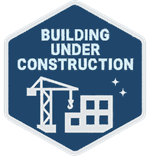
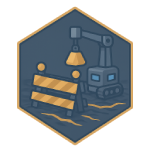
Nuevas imagenes para edificios. Por nivel

diff --git a/components/main/ResearchComponent.tsx b/components/main/ResearchComponent.tsx
@@ -36,6 +36,7 @@ export default function ResearchComponent() {
 
       const isAvailable = labLevel >= config.labLevelRequired;
       const time = formatDuration(getResearchTime(type, currentLevel + 1));
+      const isMaxed = currentLevel >= config.maxLevel;
 
       return {
         key: type,
@@ -46,6 +47,7 @@ export default function ResearchComponent() {
         inProgress,
         remainingTime,
         time,
+        isMaxed,
       };
     })
     .sort((a, b) => a.labLevelRequired - b.labLevelRequired);
@@ -73,15 +75,11 @@ export default function ResearchComponent() {
                 </Text>
               </View>
 
-              <View style={styles.row}>
-                <ResourceDisplay resources={item.baseCost} fontSize={13} />
-              </View>
-
-              <Text style={styles.description}>{item.description}</Text>
-
-              {item.inProgress ? (
-                <View style={styles.inProgressContainer}>
-                  <Text style={styles.inProgressText}>
+              {item.isMaxed ? (
+                <></>
+              ) : item.inProgress ? (
+                <View style={styles.actionContainer}>
+                  <Text style={styles.statusText}>
                     ⏳ En curso: {formatDuration(item.remainingTime)}
                   </Text>
                   <TouchableOpacity
@@ -92,14 +90,21 @@ export default function ResearchComponent() {
                   </TouchableOpacity>
                 </View>
               ) : item.isAvailable ? (
-                <TouchableOpacity
-                  style={styles.button}
-                  onPress={() => handleResearch(item.type)}
-                >
-                  <Text style={styles.buttonText}>
-                    Investigar ({item.time})
-                  </Text>
-                </TouchableOpacity>
+                <>
+                  <View style={styles.row}>
+                    <ResourceDisplay resources={item.baseCost} fontSize={13} />
+                  </View>
+                  <Text style={styles.description}>{item.description}</Text>
+                  <View style={styles.actionContainer}>
+                    <Text style={styles.statusText}>⏱ {item.time}</Text>
+                    <TouchableOpacity
+                      style={styles.investButton}
+                      onPress={() => handleResearch(item.type)}
+                    >
+                      <Text style={styles.investButtonText}>Investigar</Text>
+                    </TouchableOpacity>
+                  </View>
+                </>
               ) : (
                 <Text style={styles.lockedText}>
                   🔒 Requiere laboratorio nivel {item.labLevelRequired}
@@ -193,20 +198,40 @@ const styles = StyleSheet.create({
     color: "#fff",
     fontWeight: "bold",
   },
-  inProgressContainer: {
+  actionContainer: {
     flexDirection: "row",
     justifyContent: "space-between",
     alignItems: "center",
     marginTop: 8,
-    backgroundColor: "rgba(255,255,255,0.1)",
-    padding: 6,
+    backgroundColor: "rgba(255, 255, 255, 0.1)",
+    paddingVertical: 6,
+    paddingHorizontal: 12,
+    borderRadius: 8,
+  },
+
+  statusText: {
+    color: "#facc15",
+    fontWeight: "bold",
+    fontSize: 13,
+  },
+
+  investButton: {
+    backgroundColor: "#2196F3",
+    paddingVertical: 4,
+    paddingHorizontal: 12,
     borderRadius: 6,
   },
 
+  investButtonText: {
+    color: "#fff",
+    fontWeight: "bold",
+    fontSize: 13,
+  },
+
   cancelButton: {
-    backgroundColor: "#f87171", // rojo claro
+    backgroundColor: "#f87171",
     paddingVertical: 4,
-    paddingHorizontal: 10,
+    paddingHorizontal: 12,
     borderRadius: 6,
   },
 

diff --git a/src/config/buildingConfig.ts b/src/config/buildingConfig.ts
@@ -1,5 +1,5 @@
 import { ImageSourcePropType } from "react-native";
-import { BuildingType } from "../types/buildingTypes";
+import { BuildingImageLevel, BuildingType } from "../types/buildingTypes";
 import { IMAGES } from "../types/imageTypes";
 import { Resources } from "../types/resourceTypes";
 
@@ -8,7 +8,7 @@ export const buildingConfig: Record<
   {
     name: string;
     baseBuildTime: number;
-    image: ImageSourcePropType;
+    images: BuildingImageLevel[];
     underConstructionImage: ImageSourcePropType;
     baseCost: Partial<Resources>;
     production: Partial<Resources>;
@@ -17,7 +17,13 @@ export const buildingConfig: Record<
   base: {
     name: "Base",
     baseBuildTime: 1000,
-    image: IMAGES.BUILDING_MAIN_BASE,
+    images: [
+      { level: 1, image: IMAGES.BUILDING_BASE_1 },
+      { level: 2, image: IMAGES.BUILDING_BASE_2 },
+      { level: 3, image: IMAGES.BUILDING_BASE_3 },
+      { level: 4, image: IMAGES.BUILDING_BASE_4 },
+      { level: 5, image: IMAGES.BUILDING_BASE_5 },
+    ],
     underConstructionImage: IMAGES.BUILDING_UNDER_CONSTRUCTION,
     baseCost: { metal: 10000, energy: 500 },
     production: { metal: 3000, energy: 100, crystal: 200, stone: 3000 },
@@ -25,7 +31,13 @@ export const buildingConfig: Record<
   lab: {
     name: "Laboratorio",
     baseBuildTime: 45000,
-    image: IMAGES.BUILDING_LAB,
+    images: [
+      { level: 1, image: IMAGES.BUILDING_LAB_1 },
+      { level: 2, image: IMAGES.BUILDING_LAB_2 },
+      { level: 3, image: IMAGES.BUILDING_LAB_3 },
+      { level: 4, image: IMAGES.BUILDING_LAB_4 },
+      { level: 5, image: IMAGES.BUILDING_LAB_5 },
+    ],
     underConstructionImage: IMAGES.BUILDING_UNDER_CONSTRUCTION,
     baseCost: { stone: 600, metal: 600, energy: 50 },
     production: {},
@@ -33,7 +45,13 @@ export const buildingConfig: Record<
   metallurgie: {
     name: "Metalurgia",
     baseBuildTime: 60000,
-    image: IMAGES.BUILDING_FACTORY,
+    images: [
+      { level: 1, image: IMAGES.BUILDING_METAL_1 },
+      { level: 2, image: IMAGES.BUILDING_METAL_2 },
+      { level: 3, image: IMAGES.BUILDING_METAL_3 },
+      { level: 4, image: IMAGES.BUILDING_METAL_4 },
+      { level: 5, image: IMAGES.BUILDING_METAL_5 },
+    ],
     underConstructionImage: IMAGES.BUILDING_UNDER_CONSTRUCTION,
     baseCost: { metal: 1000, energy: 50 },
     production: { metal: 15 },
@@ -41,15 +59,27 @@ export const buildingConfig: Record<
   steinbruch: {
     name: "Cantera",
     baseBuildTime: 45000,
-    image: IMAGES.BUILDING_LAB,
+    images: [
+      { level: 1, image: IMAGES.BUILDING_MINING_1 },
+      { level: 2, image: IMAGES.BUILDING_MINING_2 },
+      { level: 3, image: IMAGES.BUILDING_MINING_3 },
+      { level: 4, image: IMAGES.BUILDING_MINING_4 },
+      { level: 5, image: IMAGES.BUILDING_MINING_5 },
+    ],
     underConstructionImage: IMAGES.BUILDING_UNDER_CONSTRUCTION,
     baseCost: { stone: 600, metal: 600, energy: 50 },
     production: { stone: 7 },
   },
   kristallmine: {
-    name: "Laboratorio",
+    name: "Mina de cristal",
     baseBuildTime: 45000,
-    image: IMAGES.BUILDING_LAB,
+    images: [
+      { level: 1, image: IMAGES.BUILDING_MINING_1 },
+      { level: 2, image: IMAGES.BUILDING_MINING_2 },
+      { level: 3, image: IMAGES.BUILDING_MINING_3 },
+      { level: 4, image: IMAGES.BUILDING_MINING_4 },
+      { level: 5, image: IMAGES.BUILDING_MINING_5 },
+    ],
     underConstructionImage: IMAGES.BUILDING_UNDER_CONSTRUCTION,
     baseCost: { metal: 1000, energy: 50 },
     production: { crystal: 3 },

diff --git a/src/types/imageTypes.ts b/src/types/imageTypes.ts
@@ -1,20 +1,62 @@
 import background from "../../assets/images/background.jpg";
-import factory from "../../assets/images/mini/Factory.png";
-import lab from "../../assets/images/mini/Lab.png";
-import mainBase from "../../assets/images/mini/MainBase.png";
-import underConstruction from "../../assets/images/mini/UnderConstruction.png";
+import base1 from "../../assets/images/mini/base1.png";
+import base2 from "../../assets/images/mini/base2.png";
+import base3 from "../../assets/images/mini/base3.png";
+import base4 from "../../assets/images/mini/base4.png";
+import base5 from "../../assets/images/mini/base5.png";
+import lab1 from "../../assets/images/mini/lab1.png";
+import lab2 from "../../assets/images/mini/lab2.png";
+import lab3 from "../../assets/images/mini/lab3.png";
+import lab4 from "../../assets/images/mini/lab4.png";
+import lab5 from "../../assets/images/mini/lab5.png";
+import metal1 from "../../assets/images/mini/metal1.png";
+import metal2 from "../../assets/images/mini/metal2.png";
+import metal3 from "../../assets/images/mini/metal3.png";
+import metal4 from "../../assets/images/mini/metal4.png";
+import metal5 from "../../assets/images/mini/metal5.png";
+import mining1 from "../../assets/images/mini/mining1.png";
+import mining2 from "../../assets/images/mini/mining2.png";
+import mining3 from "../../assets/images/mini/mining3.png";
+import mining4 from "../../assets/images/mini/mining4.png";
+import mining5 from "../../assets/images/mini/mining5.png";
+import underConstruction from "../../assets/images/mini/underConstruction.png";
+import energy from "../../assets/images/researchs/Energy.png";
+import fuel from "../../assets/images/researchs/Fuel.png";
 import mining from "../../assets/images/researchs/Mining.png";
+import ships from "../../assets/images/researchs/Ships.png";
 import terraforming from "../../assets/images/researchs/Terraforming.png";
+import water from "../../assets/images/researchs/Water.png";
 
 export const IMAGES = {
   //IMAGENES GENERALES
   BACKGROUND_IMAGE: background,
   // EDIFICIOS
-  BUILDING_MAIN_BASE: mainBase,
-  BUILDING_LAB: lab,
-  BUILDING_FACTORY: factory,
+  BUILDING_BASE_1: base1,
+  BUILDING_BASE_2: base2,
+  BUILDING_BASE_3: base3,
+  BUILDING_BASE_4: base4,
+  BUILDING_BASE_5: base5,
+  BUILDING_LAB_1: lab1,
+  BUILDING_LAB_2: lab2,
+  BUILDING_LAB_3: lab3,
+  BUILDING_LAB_4: lab4,
+  BUILDING_LAB_5: lab5,
+  BUILDING_MINING_1: mining1,
+  BUILDING_MINING_2: mining2,
+  BUILDING_MINING_3: mining3,
+  BUILDING_MINING_4: mining4,
+  BUILDING_MINING_5: mining5,
+  BUILDING_METAL_1: metal1,
+  BUILDING_METAL_2: metal2,
+  BUILDING_METAL_3: metal3,
+  BUILDING_METAL_4: metal4,
+  BUILDING_METAL_5: metal5,
   BUILDING_UNDER_CONSTRUCTION: underConstruction,
   //INVESTIGACIONIES
   RESEARCH_MINING: mining,
   RESEARCH_TERRAFORMING: terraforming,
+  RESEARCH_WATER: water,
+  RESEARCH_FUEL: fuel,
+  RESEARCH_ENERGY: energy,
+  RESEARCH_SHIPS: ships,
 };

diff --git a/src/config/researchConfig.ts b/src/config/researchConfig.ts
@@ -34,4 +34,44 @@ export const researchTechnologies: Record<
     maxLevel: 4,
     description: "Permite mejorar las minas de piedra, cristal y metal ",
   },
+  waterPurification: {
+    name: "Purificación de Agua",
+    labLevelRequired: 2,
+    image: IMAGES.RESEARCH_WATER,
+    baseCost: { metal: 800, energy: 3000, crystal: 1200 },
+    baseResearchTime: 60000,
+    maxLevel: 3,
+    description:
+      "Desbloquea sistemas de filtrado y recolección de agua, vital para mantener la vida y expandir tu colonia.",
+  },
+  fuelRefinement: {
+    name: "Refinamiento de Combustible",
+    labLevelRequired: 3,
+    image: IMAGES.RESEARCH_FUEL,
+    baseCost: { metal: 2000, energy: 6000, crystal: 2000 },
+    baseResearchTime: 90000,
+    maxLevel: 4,
+    description:
+      "Permite producir combustible más eficiente para los vehículos y sistemas avanzados de la base.",
+  },
+  energyEfficiency: {
+    name: "Eficiencia Energética",
+    labLevelRequired: 2,
+    image: IMAGES.RESEARCH_ENERGY,
+    baseCost: { metal: 1200, energy: 3000, crystal: 1500 },
+    baseResearchTime: 70000,
+    maxLevel: 3,
+    description:
+      "Optimiza el consumo energético de todas tus estructuras, reduciendo los costes de mantenimiento.",
+  },
+  shipEngineering: {
+    name: "Ingeniería de Naves",
+    labLevelRequired: 4,
+    image: IMAGES.RESEARCH_SHIPS,
+    baseCost: { metal: 5000, energy: 8000, crystal: 4000 },
+    baseResearchTime: 150000,
+    maxLevel: 3,
+    description:
+      "Permite construir naves exploradoras y cargueros, esenciales para la expansión y el comercio interestelar.",
+  },
 };

diff --git a/components/secondary/HexTile.tsx b/components/secondary/HexTile.tsx
@@ -29,7 +29,9 @@ export default function HexTile({
   const buildingImage = construction
     ? buildingConfig[construction.building].underConstructionImage
     : building
-    ? buildingConfig[building.type].image
+    ? buildingConfig[building.type].images.find(
+        (img) => img.level === building.level
+      )?.image
     : undefined;
 
   return (
@@ -37,10 +39,10 @@ export default function HexTile({
       {buildingImage ? (
         <SvgImage
           href={buildingImage}
-          x={px - (60 * Math.sqrt(3) * 1.14) / 2}
-          y={py - 60 * 1.14}
-          width={60 * Math.sqrt(3) * 1.14}
-          height={60 * 2 * 1.14}
+          x={px - (60 * Math.sqrt(3) * 1.25) / 2}
+          y={py - 60 * 1.25}
+          width={60 * Math.sqrt(3) * 1.25}
+          height={60 * 2 * 1.25}
           preserveAspectRatio="xMidYMid meet"
           onPressIn={onTouchStart}
           onPressOut={onTouchEnd}
@@ -50,7 +52,7 @@ export default function HexTile({
           points={points}
           fill={config.fallbackColor}
           stroke="#333"
-          strokeWidth="1"
+          strokeWidth="3"
           onPressIn={onTouchStart}
           onPressOut={onTouchEnd}
         />

diff --git a/src/types/buildingTypes.ts b/src/types/buildingTypes.ts
@@ -1,3 +1,5 @@
+import { ImageSourcePropType } from "react-native";
+
 export type BuildingType =
   | "base"
   | "metallurgie"
@@ -8,4 +10,9 @@ export type BuildingType =
 export type BuildingData = {
   type: BuildingType;
   level: number;
+};
+
+type BuildingImageLevel = {
+  level: number;
+  image: ImageSourcePropType;
 };

diff --git a/src/types/researchTypes.ts b/src/types/researchTypes.ts
@@ -1,4 +1,10 @@
-export type ResearchType = "terraforming" | "mining";
+export type ResearchType =
+  | "terraforming"
+  | "mining"
+  | "shipEngineering"
+  | "waterPurification"
+  | "fuelRefinement"
+  | "energyEfficiency";
 
 export type ResearchData = {
   type: ResearchType;

diff --git a/components/secondary/HexModal.tsx b/components/secondary/HexModal.tsx
@@ -58,7 +58,7 @@ export default function HexModal({
 
   if (!data) return null;
 
-  const { terrain, building, construction } = data;
+  const { building, construction } = data;
 
   const renderContent = () => {
     if (construction && remainingTime !== null) {
